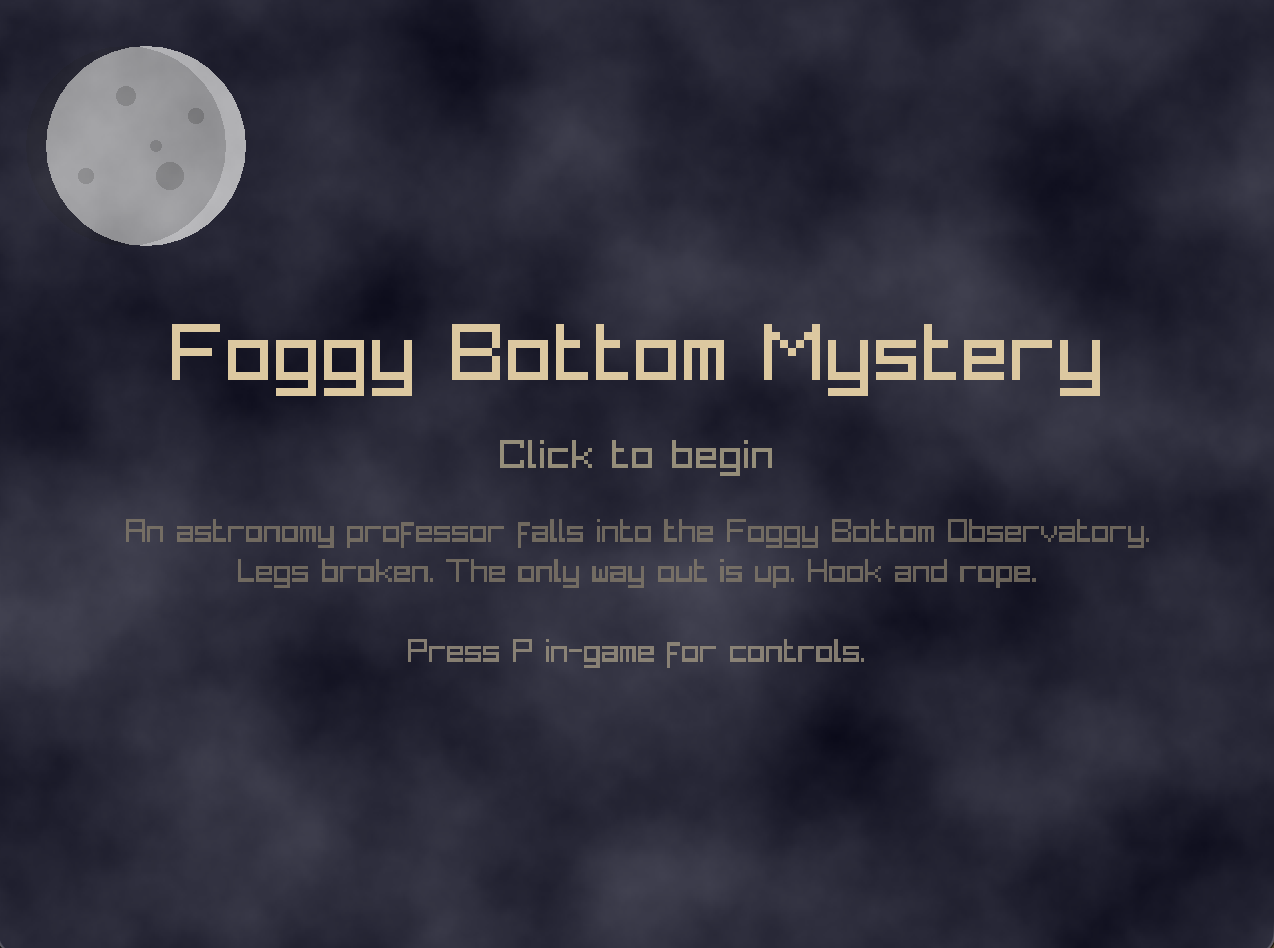
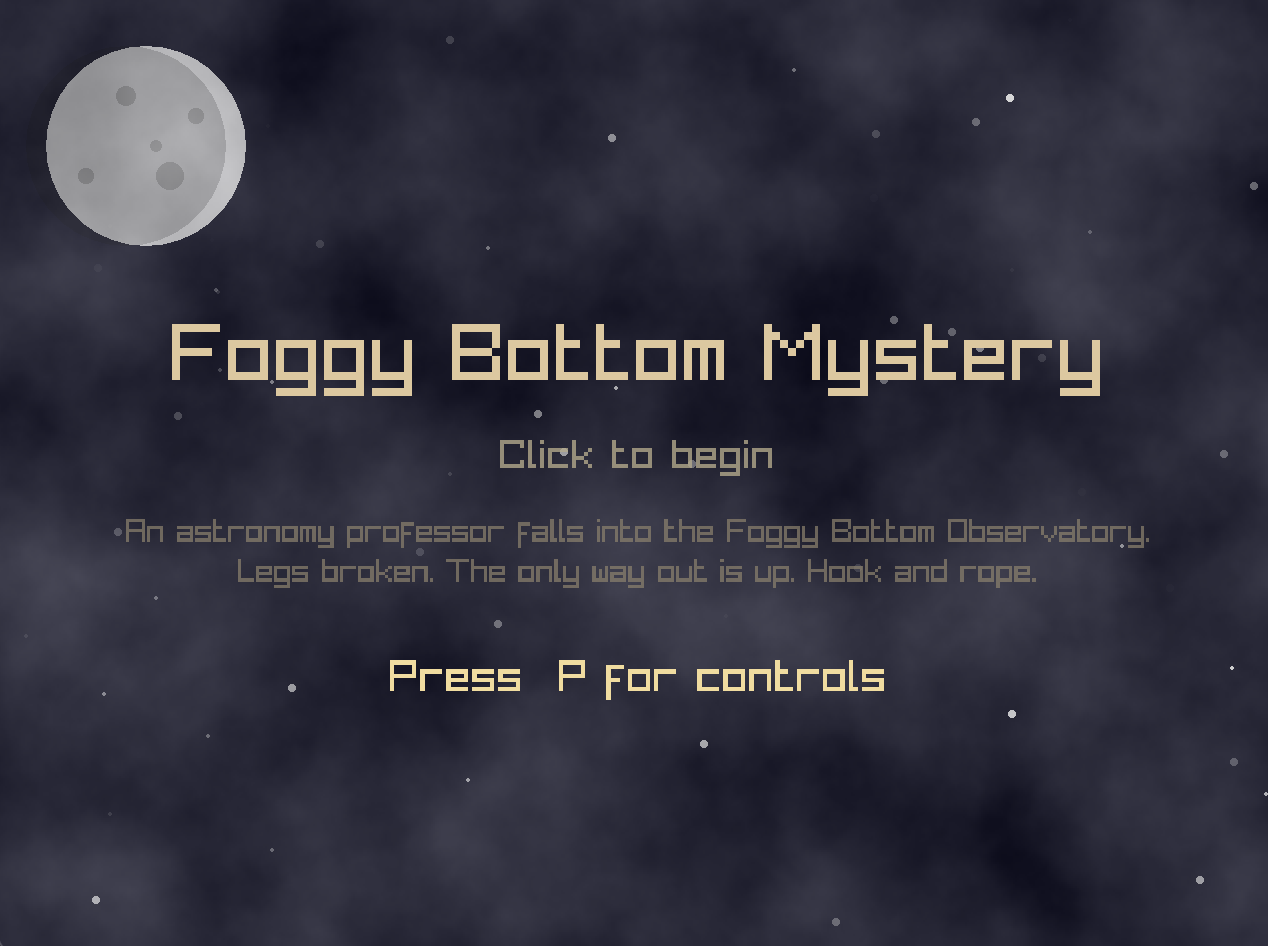
docs(readme): added in-game screenshots

diff --git a/README.md b/README.md
@@ -32,7 +32,7 @@ by Daniel Jeong
     - [Music](#music)
     - [Sound Effects](#sound-effects)
   - [Game Experience](#game-experience)
-    - [In-game Screenshoots](#in-game-screenshoots)
+    - [In-game Screenshots](#in-game-screenshots)
     - [UI](#ui)
     - [Controls](#controls)
   - [Development Timeline](#development-timeline)
@@ -76,7 +76,7 @@ _Getting Over It_(GOI) is famous for its unintuivie and frustrating mechanics. I
 
 _Terraria_ has hooking mechanism that allows user to move between platforms using a hook item. The idea of using such mechanism in a 2D game is very appealing to me and I think the mechanism is much more interesting that just jumping.
 
-![terraria hook](/assets/terraria_hook.png)
+![terraria hook](https://raw.githubusercontent.com/danielyj147/cosc481_final/master/assets/terraria_hook.png)
 
 
 ### Player Experience
@@ -194,9 +194,15 @@ Dramatic sound effect when the player falls more than a certain y distance. "Hoo
 
 The professor wakes up at the bottom of the observatory shaft. Legs broken. Fog everywhere. He can't walk. He can't jump. But there's a hook and a rope lying next to him - and a long, long way up.
 
-### In-game Screenshoots
+### In-game Screenshots
 
+| Start | Level 1 |
+| --- | --- |
+| ![start](https://raw.githubusercontent.com/danielyj147/cosc481_final/master/assets/start.png) | ![l1](https://raw.githubusercontent.com/danielyj147/cosc481_final/master/assets/l1.png) |
 
+| Level 2 | End |
+| --- | --- |
+| ![l2](https://raw.githubusercontent.com/danielyj147/cosc481_final/master/assets/l2.png) | ![end](https://raw.githubusercontent.com/danielyj147/cosc481_final/master/assets/end.png) |
 
 ### UI
 
@@ -234,7 +240,7 @@ E : Fly mode & debug overlay (FPS, position, velocity, hook state)
 | 2 | Code Commit V1 | dev | 🟢 | April 19, 10 PM | L1 playable with hook mechanics |
 | 3 | Final Code | dev | 🟢 |  April 30, 5 PM| L2, ending sequence |
 | 4 | Final Design Doc | doc | 🟢 | May 4, 10 PM | |
-| 5 | Demo Vid | doc | 🔴 | May 4, 10 PM | |
+| 5 | Demo Vid | doc | 🟢 | May 4, 10 PM | |
 | 6 | Presentation | other | 🔴 | May 6, ??:?? | |
 
 ## References
